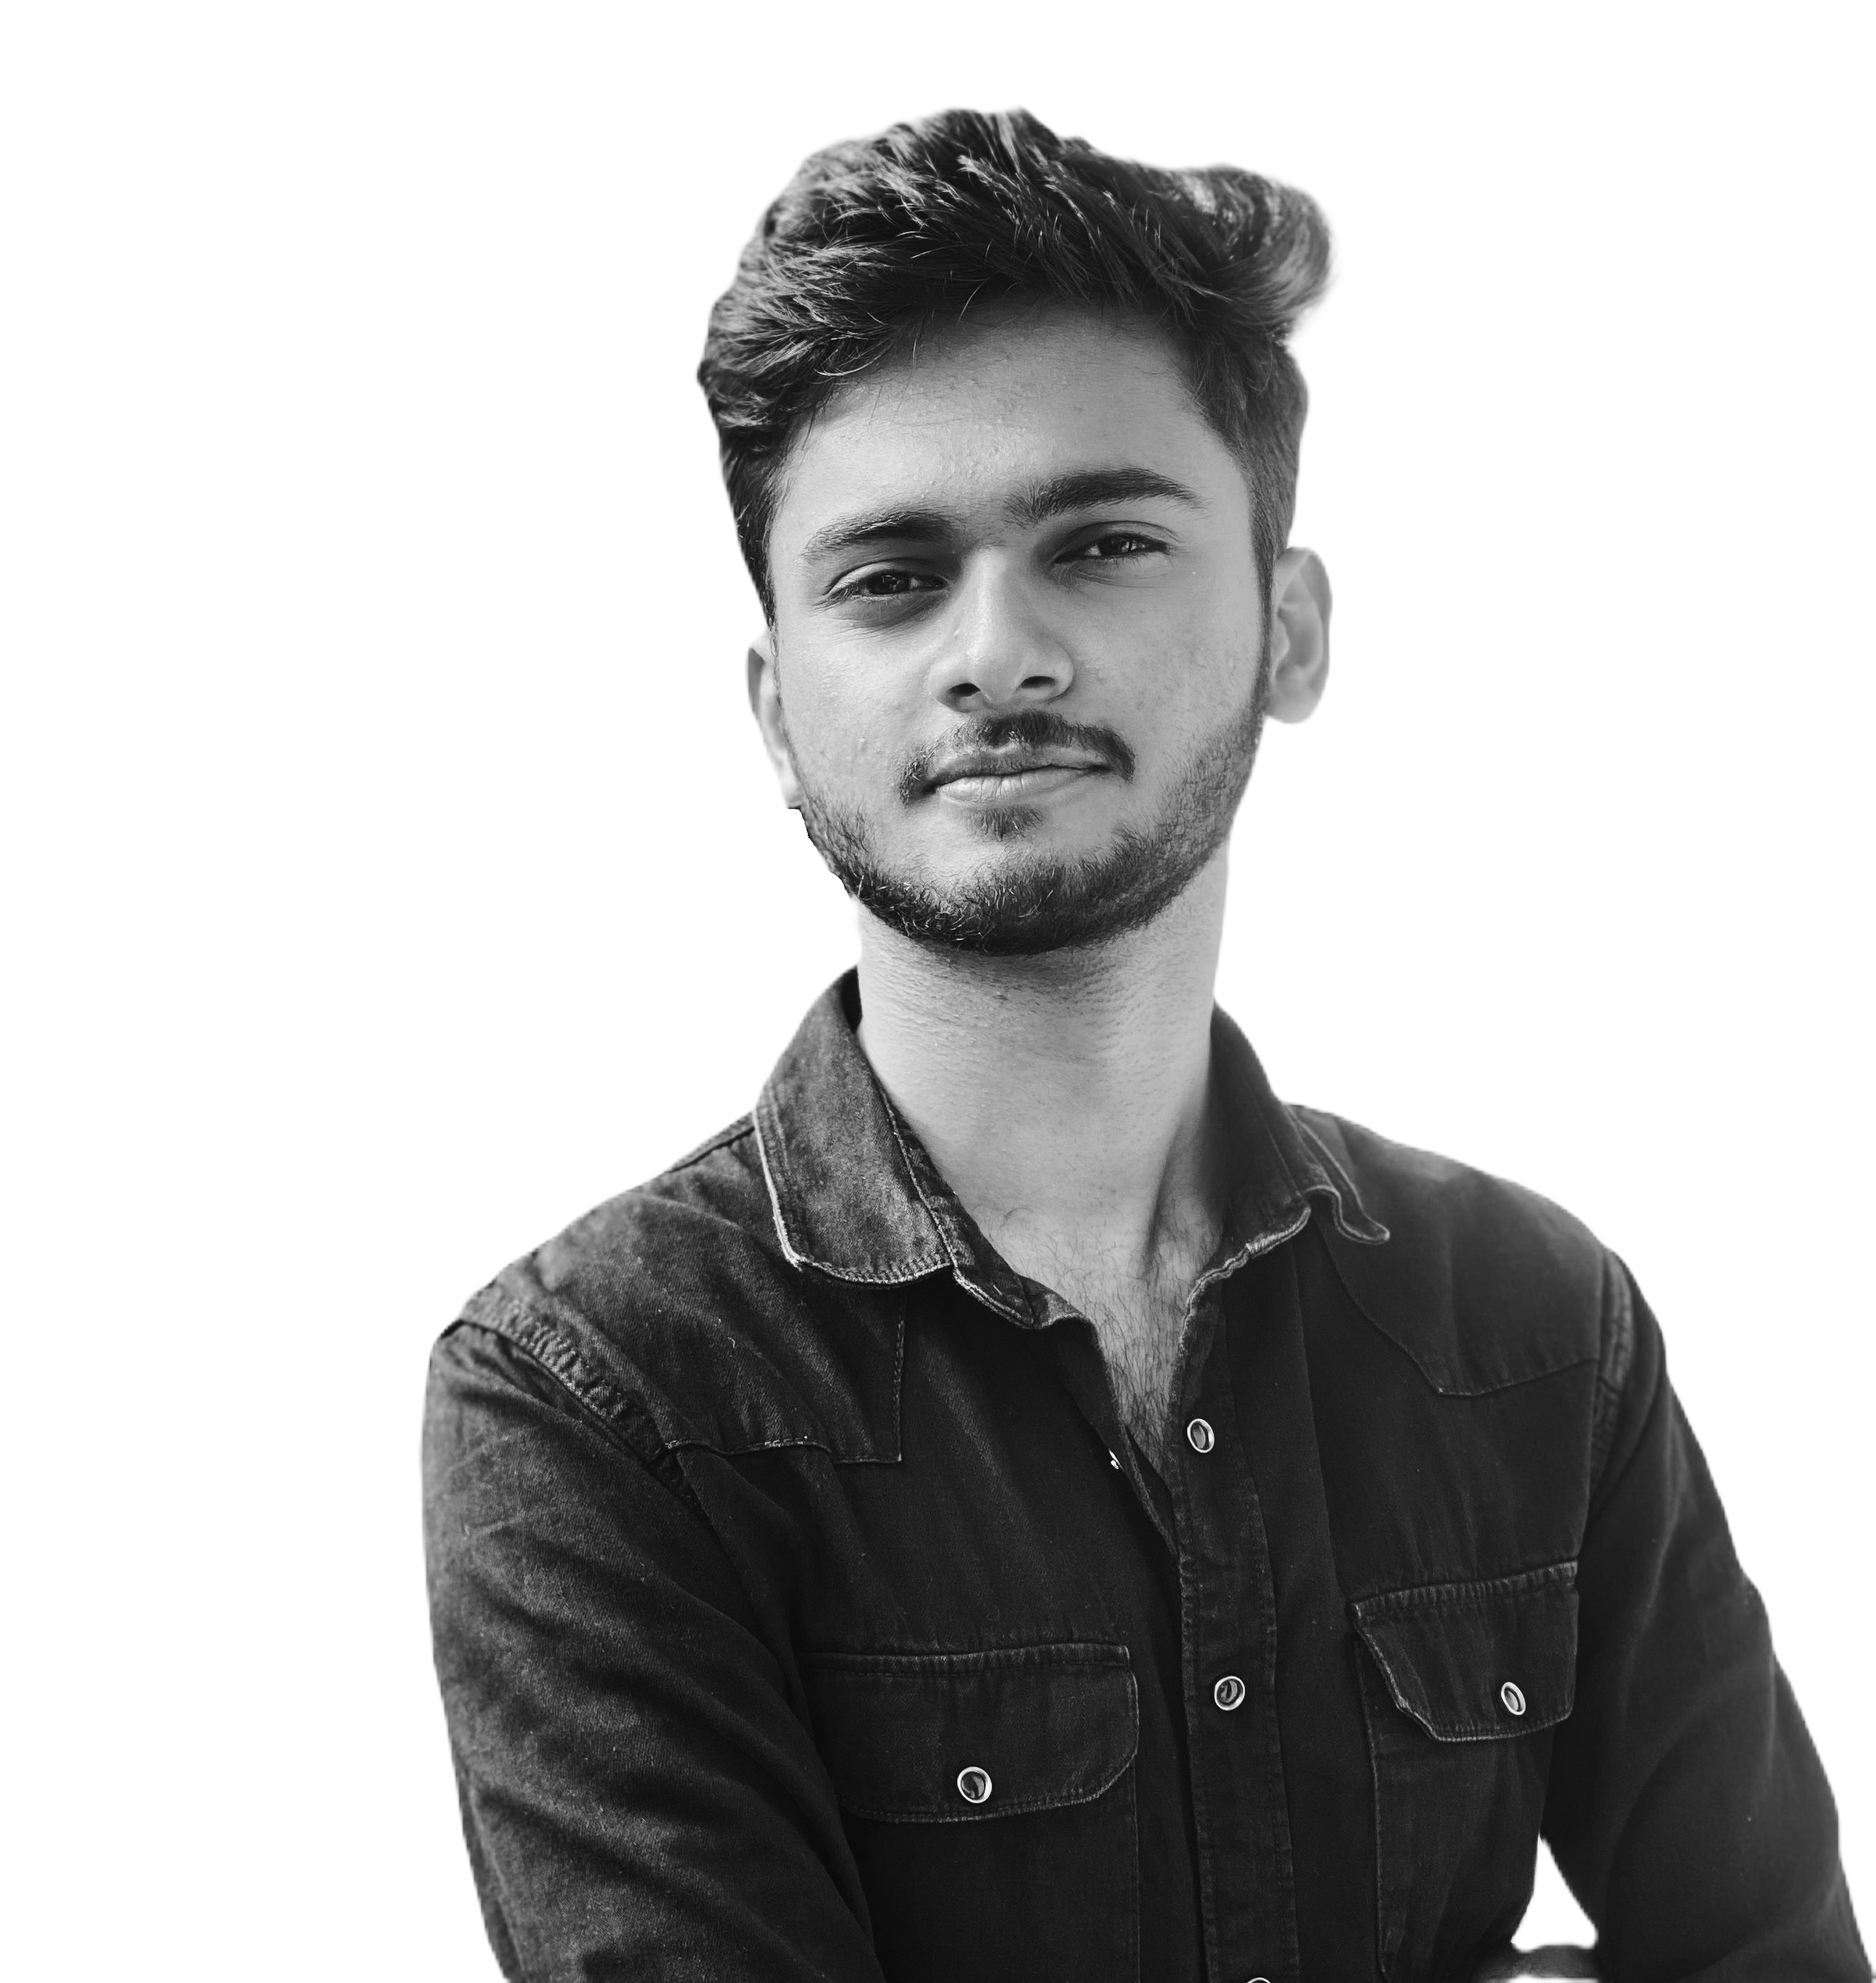
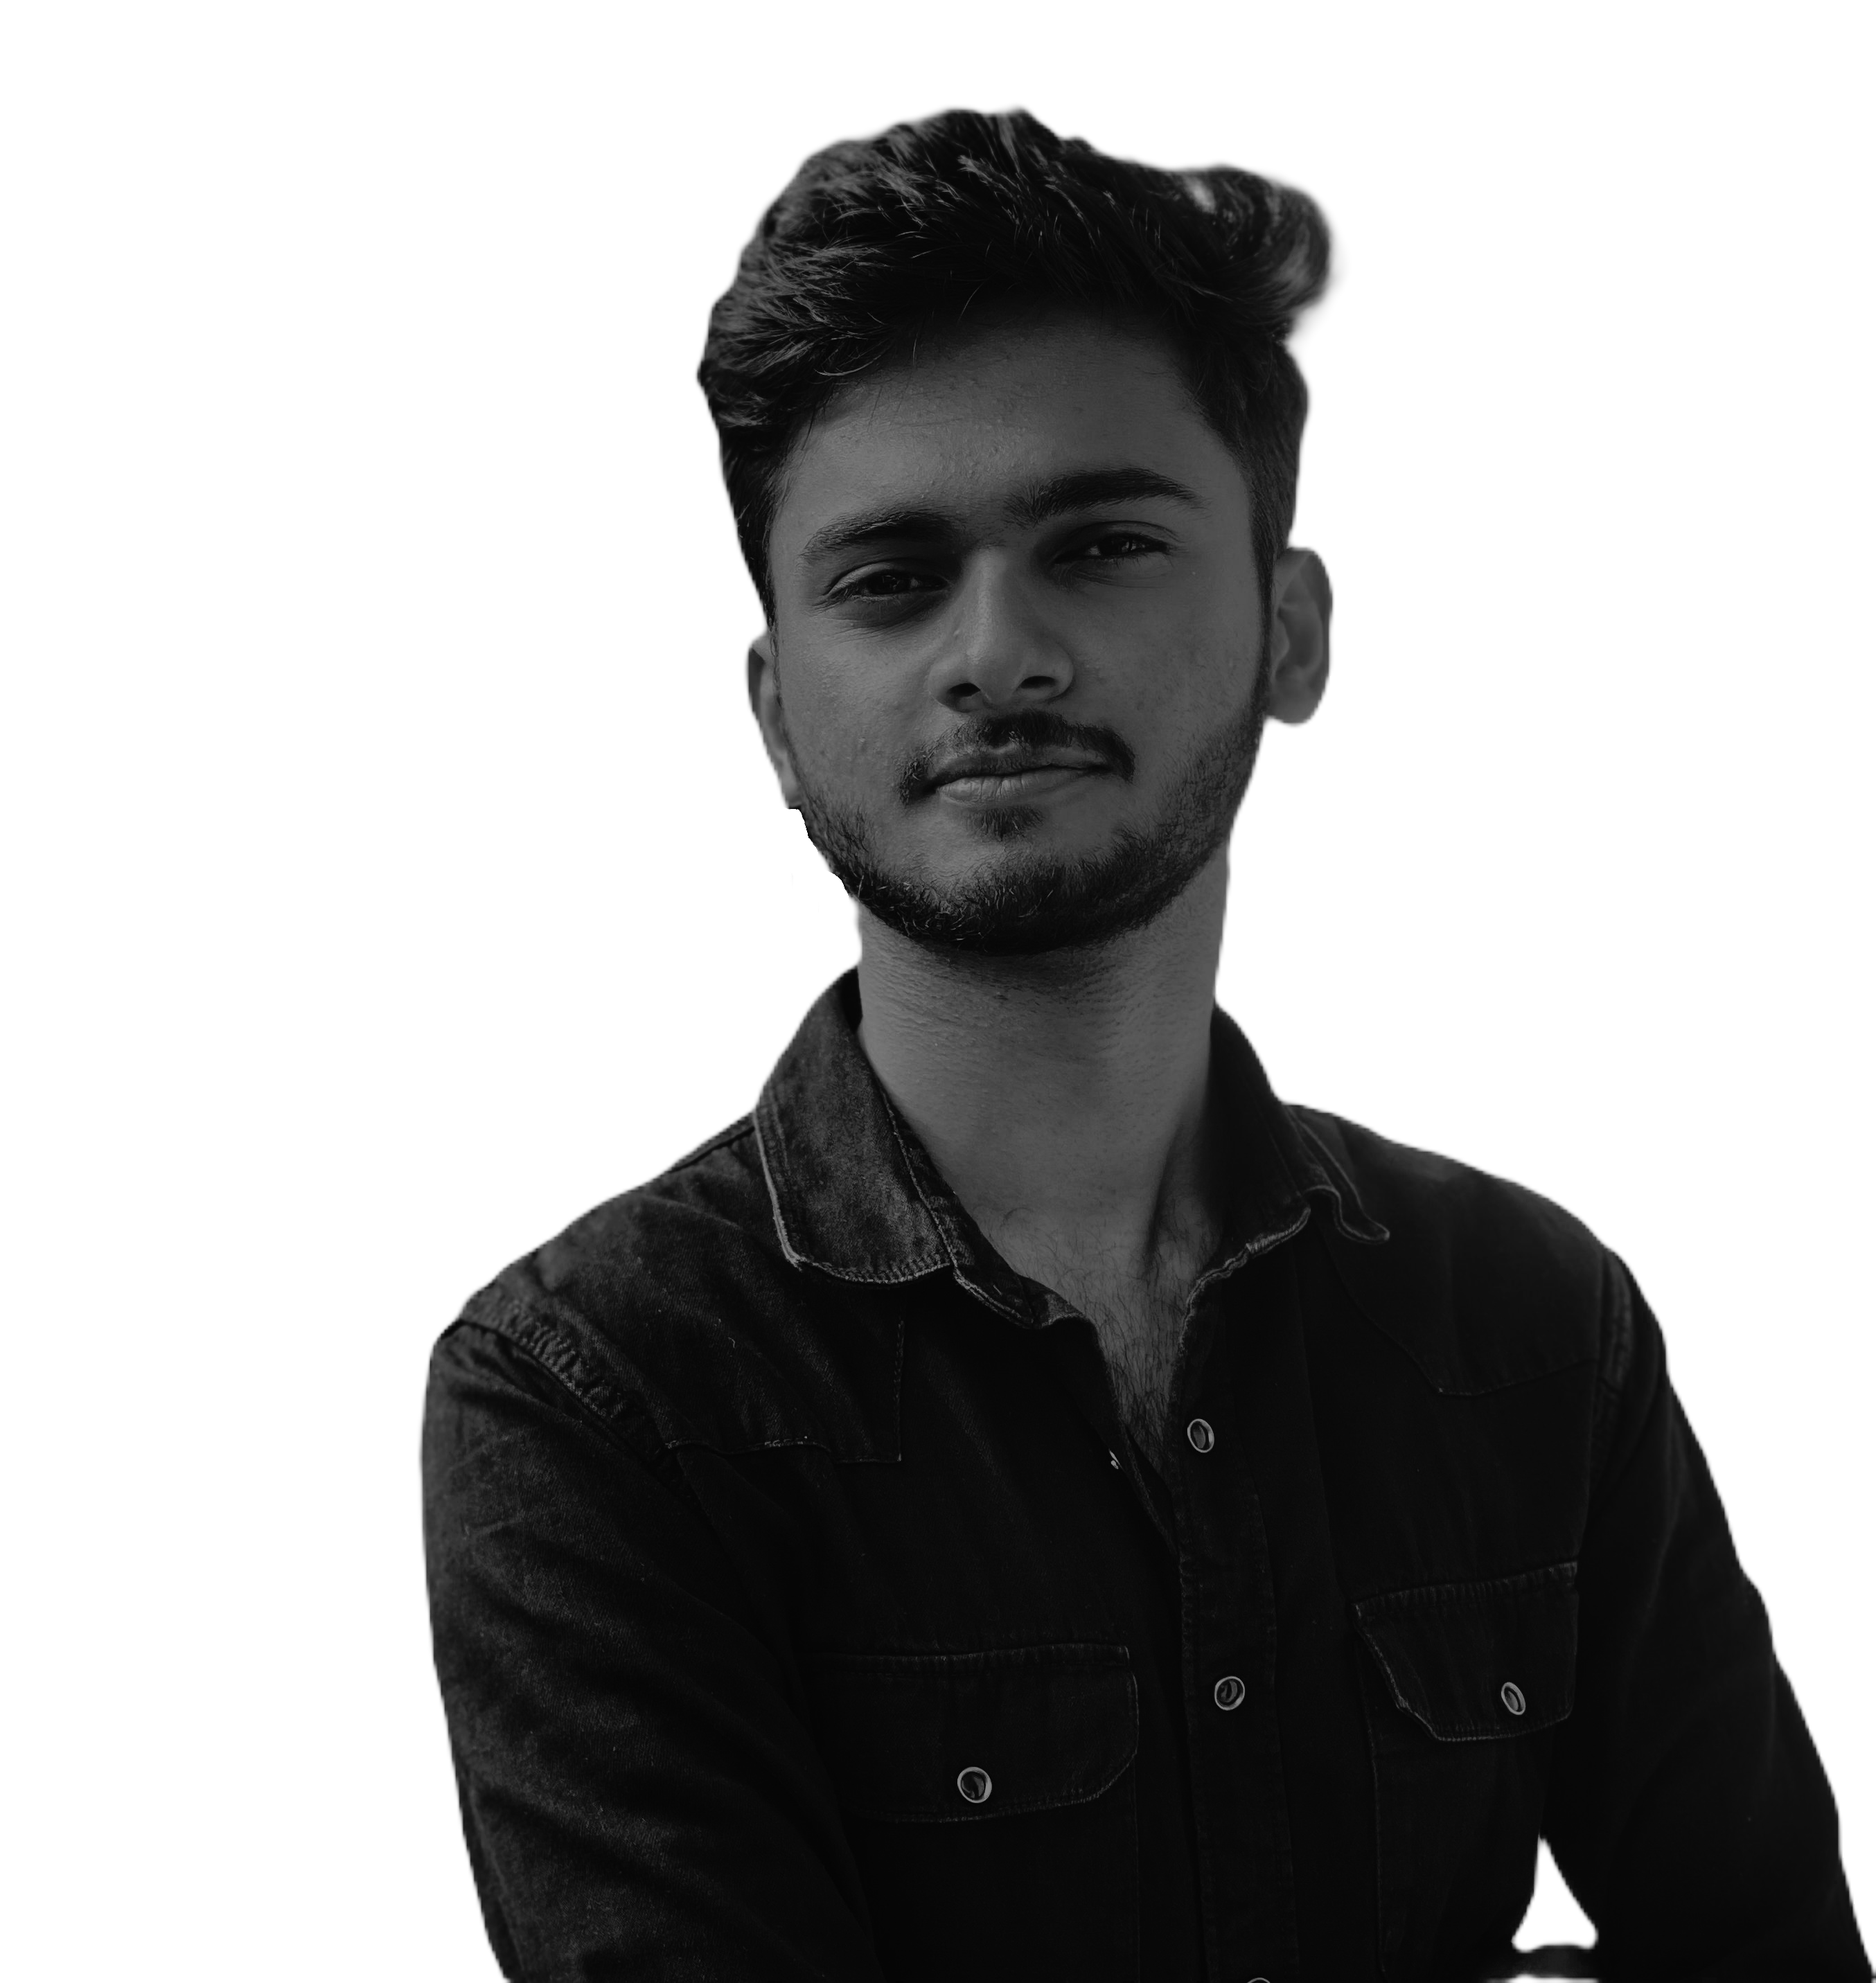
changed images

Changed region(s): [[0.2171, 0.0311, 1.0, 1.0], [0.6514, 0.9948, 0.6824, 1.0]]

diff --git a/index.html b/index.html
@@ -51,7 +51,7 @@
           Driven by dreams.
         </div>
         <div class="pic">
-          <img src="images/p2.png" id="pic" alt="picture" />
+          <img src="images/p3.png" id="pic" alt="picture" />
         </div>
       </div>
 
